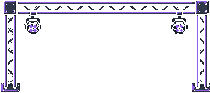
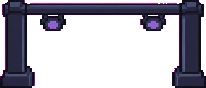
art: refine dj upper support and console base

diff --git a/src/world/dj/djBooth.js b/src/world/dj/djBooth.js
@@ -9,9 +9,6 @@ const DJ_ASSETS = Object.freeze({
   speakerTallRight: Object.freeze({ key: 'dj-speaker-tall-02', path: `${DJ_ASSET_ROOT}/speaker_tall_02.png` }),
   trussPortal: Object.freeze({ key: 'dj-truss-portal-01', path: `${DJ_ASSET_ROOT}/dj_truss_portal_01.png` }),
   consoleShelf: Object.freeze({ key: 'dj-console-shelf-01', path: `${DJ_ASSET_ROOT}/dj_console_shelf_01.png` }),
-  cupBlue: Object.freeze({ key: 'dj-cup-blue-01', path: `${DJ_ASSET_ROOT}/dj_cup_blue_01.png` }),
-  cupRed: Object.freeze({ key: 'dj-cup-red-01', path: `${DJ_ASSET_ROOT}/dj_cup_red_01.png` }),
-  bottle: Object.freeze({ key: 'dj-bottle-01', path: `${DJ_ASSET_ROOT}/dj_bottle_01.png` }),
 });
 
 export function preloadDjBooth(scene) {
@@ -31,7 +28,7 @@ export function createDjBooth(scene, dj) {
     .setOrigin(0.5, 1)
     .setDepth(9);
 
-  const truss = scene.add.image(centerX, dj.y - 29, DJ_ASSETS.trussPortal.key)
+  const truss = scene.add.image(centerX, dj.y - 27, DJ_ASSETS.trussPortal.key)
     .setOrigin(0.5, 0)
     .setDepth(10);
 
@@ -50,7 +47,7 @@ export function createDjBooth(scene, dj) {
     DJ_ASSETS.speakerTallRight.key,
   ).setOrigin(0).setDepth(13);
 
-  const consoleShelf = scene.add.image(centerX, dj.y + 47, DJ_ASSETS.consoleShelf.key)
+  const consoleShelf = scene.add.image(centerX, dj.y + 45, DJ_ASSETS.consoleShelf.key)
     .setOrigin(0.5, 0)
     .setDepth(14);
 
@@ -58,11 +55,6 @@ export function createDjBooth(scene, dj) {
   const consoleTop = scene.add.image(centerX, dj.y + 24, DJ_ASSETS.consoleTop.key)
     .setOrigin(0.5, 0)
     .setDepth(16);
-  const props = [
-    scene.add.image(centerX - 68, dj.y + 31, DJ_ASSETS.cupBlue.key).setOrigin(0.5, 0).setDepth(17),
-    scene.add.image(centerX + 66, dj.y + 20, DJ_ASSETS.bottle.key).setOrigin(0.5, 0).setDepth(17),
-    scene.add.image(centerX + 78, dj.y + 34, DJ_ASSETS.cupRed.key).setOrigin(0.5, 0).setDepth(17),
-  ];
 
   return {
     stage,
@@ -73,6 +65,5 @@ export function createDjBooth(scene, dj) {
     speakers: [leftSpeaker, rightSpeaker],
     consoleTop,
     consoleShelf,
-    props,
   };
 }
